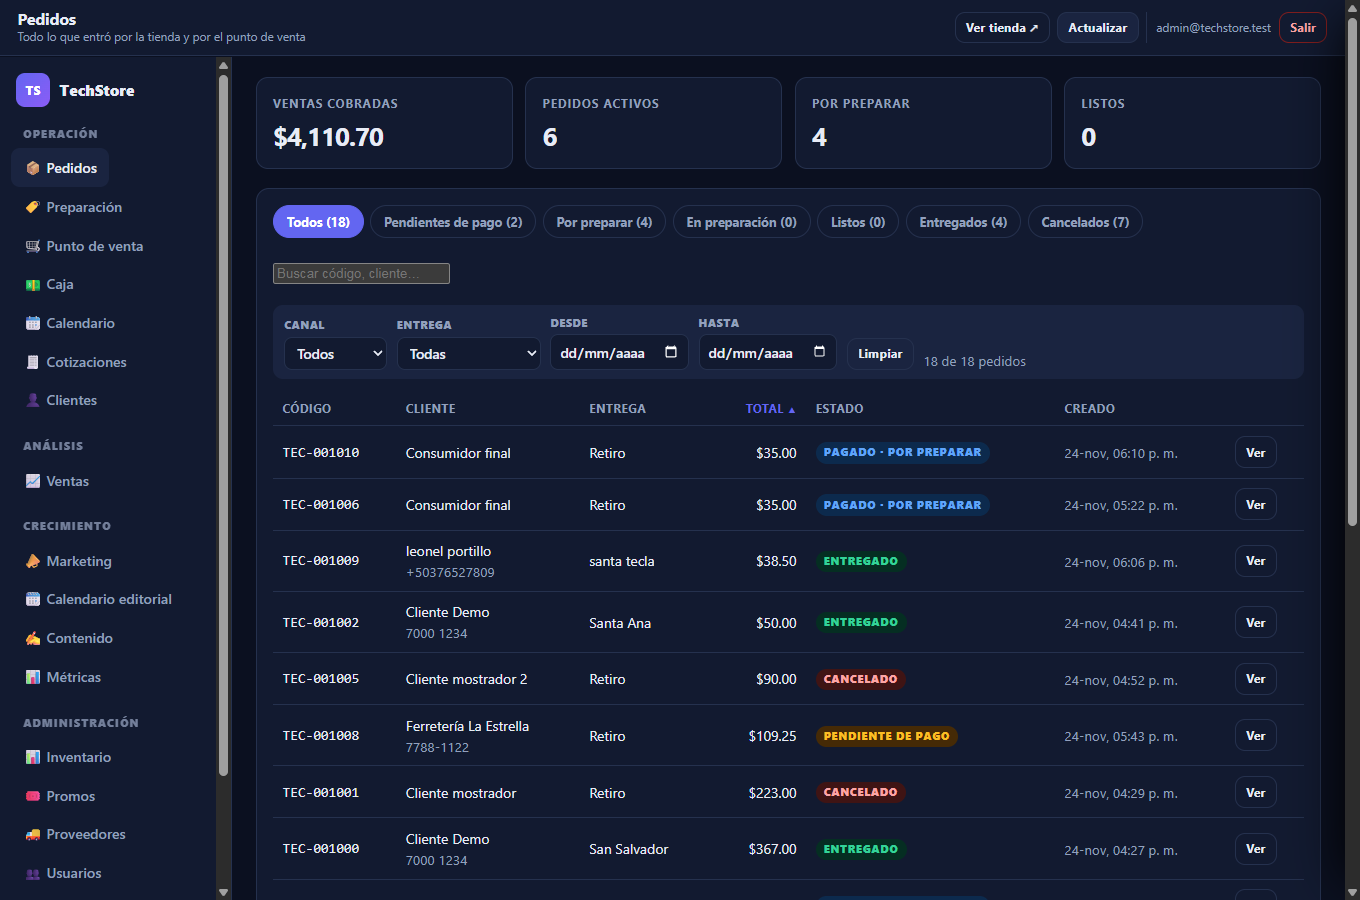
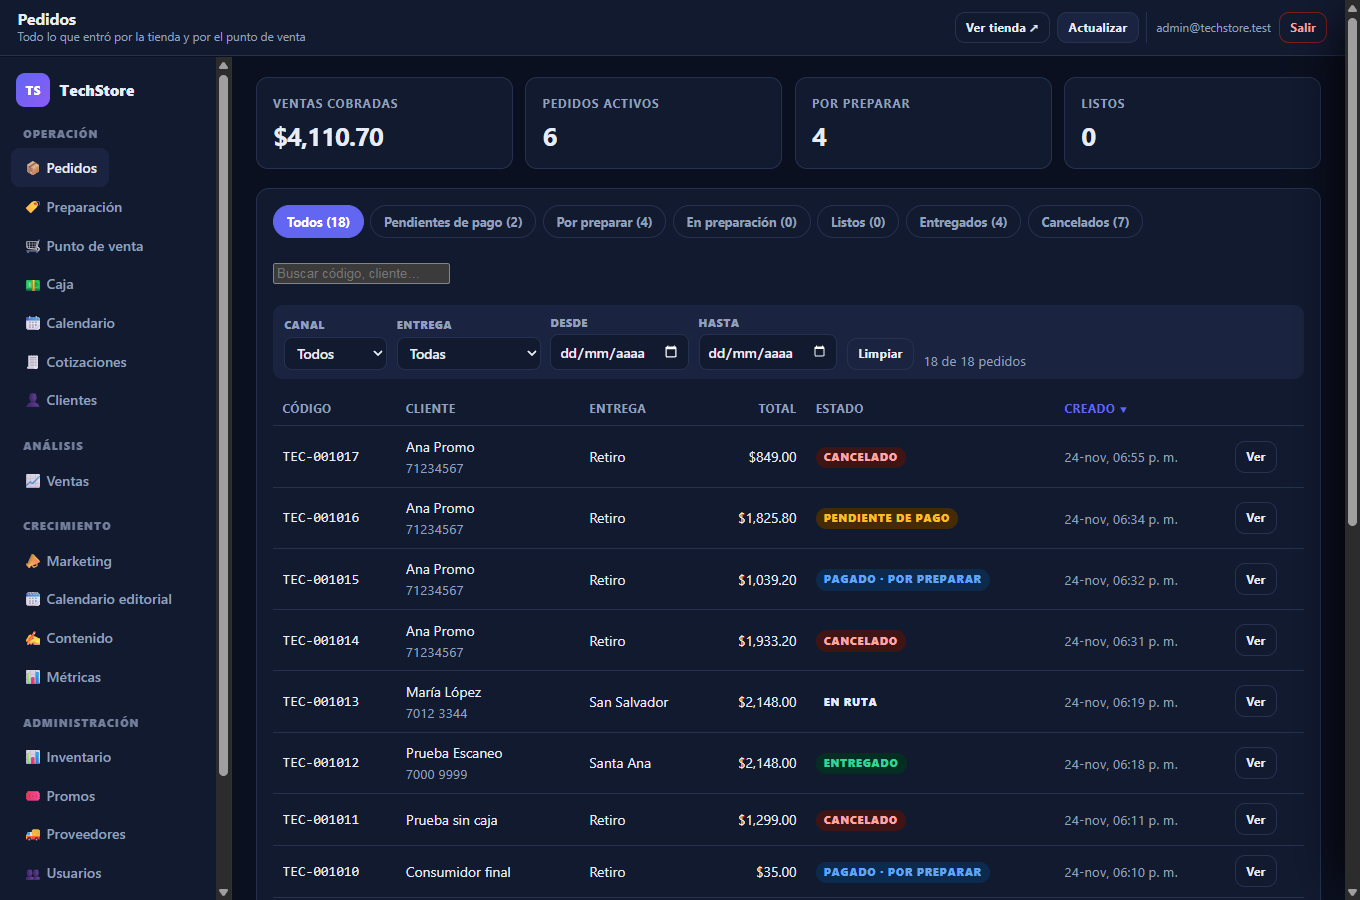
docs(readme): orden y filtros de pedidos, drawer con cortina y scroll

diff --git a/README.md b/README.md
@@ -58,6 +58,8 @@ Son cuentas de sandbox con correo ya confirmado. **Las contraseñas no se guarda
 - **Ruta ordenada**: la agenda ordena las paradas con **Metrocentro primero** y **Plaza Merliot después** (por `ts_pickup_points.sort`), y avisa si hay que desplazarse a dos puntos.
 - **Tema claro / oscuro**: Configuración → **Apariencia** permite poner la **tienda** y el **panel** en claro u oscuro por separado, con vista previa y botón de restablecer. Se guarda en `ts_settings` (clave `theme`, lectura pública) y se aplica a todo el sitio vía `data-theme` en `<html>`. Ambos CSS exponen variables (`--bg`, `--card`, `--bg-2`, `--ink`/`--txt`, `--accent`, `--line`, `--on-accent`), así que cambiar la paleta no exige tocar componentes.
 - **Fotos de producto**: en Inventario → **Editar** hay sección **Fotos**: botón *Agregar fotos* (JPG/PNG/WebP/AVIF, máx. 5 MB, hasta 6 por producto), miniaturas con **Portada** (la primera) y borrado individual. Se suben al bucket público **`ts-productos`** de Supabase Storage (`<sku>/<timestamp>-<rand>.<ext>`) y se guardan en `ts_products.images` (array); `image_url` replica la portada, de modo que catálogo y ficha la toman sin cambios. En la ficha del cliente las fotos extra aparecen como **miniaturas** que cambian la imagen principal. Subida/borrado permitidos solo a `ts_is_staff()` (admin y operador); lectura pública.
+- **Pedidos**: tabla con **orden por columna** (clic en Código, Cliente, Entrega, Total, Estado o Creado; segundo clic invierte, ▲▼ en el encabezado) y **filtros combinados**: pestañas por estado, búsqueda, canal (en línea/mostrador), tipo de entrega y rango de fechas, con contador "X de Y" y botón Limpiar.
+- **Panel deslizante (fichas)**: se abre sobre una cortina oscura, **se cierra al tocar fuera** o con `Esc`, ocupa el **alto real del dispositivo** (`100dvh`) por encima de la barra del panel y su contenido **hace scroll interno**, así no se pierde bajo el menú. Aplica a fichas de pedido, producto y piezas de marketing (`openDrawerUI`/`closeDrawerUI` en `core.js`).
 - **Marketing** (rol `community_manager` o admin): módulo **Crecimiento** con cuatro vistas: **Marketing** (redes del negocio con audiencia, estado de API y publicaciones por red; semana en curso y alerta de inactividad), **Calendario editorial** (mes con chips por pieza y estado), **Contenido** (biblioteca con filtros, editor con ganchos, hashtags y **generador de piezas 1080×1080** en canvas con plantillas *precio / nuevo / oferta / solo foto / texto*, descarga PNG y subida a Storage) y **Métricas** (registro manual de alcance, interacciones y clics, con comparativa por tipo y por red). La publicación es **asistida**: se copia el texto, se abre la app y se marca como publicada con su enlace. Los campos de API quedan preparados para conectar Meta/TikTok cuando existan credenciales. Tablas: `ts_content`, `ts_content_metrics`, `ts_social_stats`, `ts_campaigns`, `ts_content_ideas`.
 - **Portada con producto destacado**: el hero muestra una tarjeta con el producto de **mayor precio con stock** (imagen, marca, nombre, precio y enlace), más contador real de catálogo y datos de entrega. Se rellena en `renderHero()` desde `storefront.js`; si no hay productos, la tarjeta queda oculta.
 
